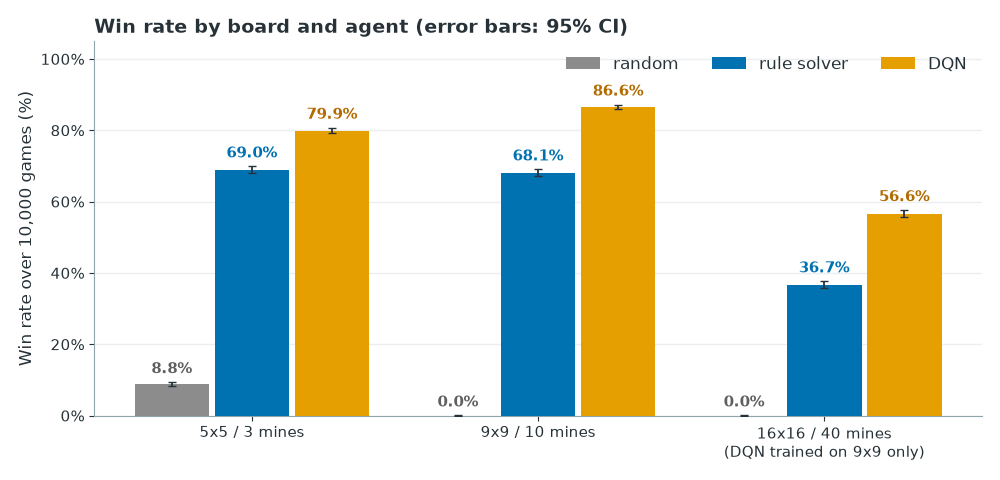
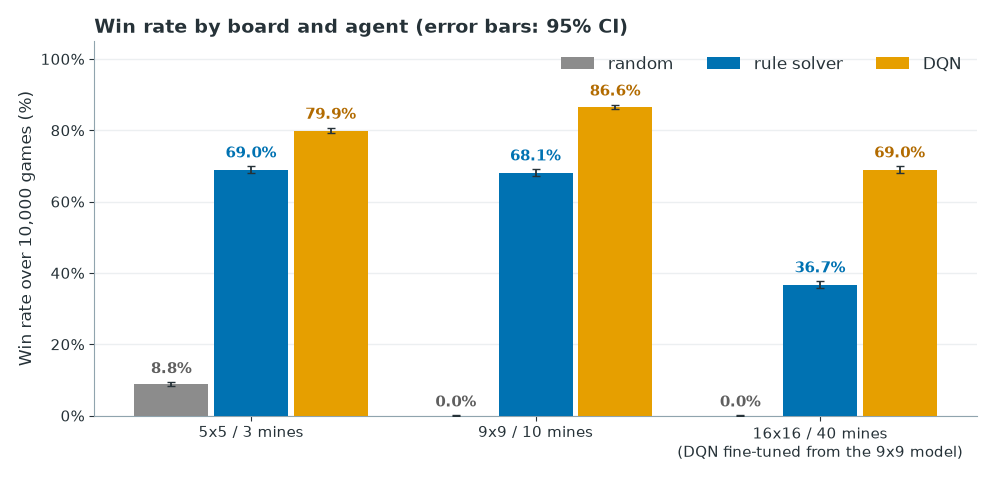
Results chart: show fine-tuned 16x16 model (68.97% on 10k standard seeds)
Claude-Session: https://claude.ai/code/session_01DprKnBVyFFp4QZyyFtDwfA

diff --git a/scripts/make_figures.py b/scripts/make_figures.py
@@ -90,8 +90,8 @@ def results_comparison() -> None:
     groups = [
         ("5x5 / 3 mines", "baselines/random_5x5_3.json", "baselines/rule_5x5_3.json", "dqn/dqn_5x5_3.json"),
         ("9x9 / 10 mines", "baselines/random_9x9_10.json", "baselines/rule_9x9_10.json", "dqn/dqn_9x9_10.json"),
-        ("16x16 / 40 mines\n(DQN trained on 9x9 only)", "baselines/random_16x16_40.json",
-         "baselines/rule_16x16_40.json", "dqn/dqn_9x9_10_on_16x16_40.json"),
+        ("16x16 / 40 mines\n(DQN fine-tuned from the 9x9 model)", "baselines/random_16x16_40.json",
+         "baselines/rule_16x16_40.json", "dqn/dqn_16x16_40_finetune.json"),
     ]
     series = [("random", C_RANDOM, "#5f5f5f"), ("rule solver", C_RULE, C_RULE), ("DQN", C_DQN, C_DQN_TEXT)]
     fig, ax = plt.subplots(figsize=(10, 4.8))

diff --git a/README.md b/README.md
@@ -23,13 +23,13 @@ Win rate over 10,000 games, 95% Wilson CI. Standard seeds are 1,000,000-1,009,99
 |-------|--------|-------------|----------------------|--------------------|
 | 5x5 / 3 mines | 8.82% (8.28-9.39%) | 68.96% (68.05-69.86%) | **79.93%** (79.13-80.70%) | - |
 | 9x9 / 10 mines | 0.00% (0.00-0.04%) | 68.11% (67.19-69.02%) | **86.55%** (85.87-87.20%) | **87.57%** (86.91-88.20%) |
-| 16x16 / 40 mines, **DQN fine-tuned on 16x16** | 0.00% (0.00-0.04%) | 36.09% | - | **68.50%** (67.58-69.40%) |
+| 16x16 / 40 mines, **DQN fine-tuned on 16x16** | 0.00% (0.00-0.04%) | 36.69% (35.75-37.64%) | **68.97%** (68.06-69.87%) | **68.50%** (67.58-69.40%) |
 | 16x16 / 40 mines, DQN trained on 9x9 only (zero-shot) | 0.00% (0.00-0.04%) | 36.69% (35.75-37.64%) | 56.63% (55.66-57.60%) | 56.70% (unseen seeds, from the experiments) |
 | 5x5 / 3 mines, DQN trained on 9x9 only | - | - | 79.09% (78.28-79.88%) | - |
 
 ![Win rate by board and agent](docs/assets/results_comparison.png)
 
-The fine-tuned 16x16 row is `models/dqn_16x16_40_finetune.pt`, the best checkpoint of the best of 4 fine-tuning/scratch runs (the 2 fine-tune runs reached 65.2% and 68.5%), so 68.5% is an optimistic pick; a typical run lands nearer 63-67%. An independent check on 3,000 fresh seeds (7,000,000 and up) gave **69.2%** (67.5-70.8%), against 57.8% for the 9x9 model on the same games. The rule solver's 36.09% is on the same 10,000 unseen seeds; the other solver and random numbers in the table are on the standard seeds. The chart above predates the fine-tuned model and still shows the zero-shot 16x16 bar.
+The fine-tuned 16x16 row is `models/dqn_16x16_40_finetune.pt`, the best checkpoint of the best of 4 fine-tuning/scratch runs (the 2 fine-tune runs reached 65.2% and 68.5%), so 68.5% is an optimistic pick; a typical run lands nearer 63-67%. An independent check on 3,000 fresh seeds (7,000,000 and up) gave **69.2%** (67.5-70.8%), against 57.8% for the 9x9 model on the same games. On the unseen seeds the rule solver wins 36.09%; the solver and random columns in the table are on the standard seeds. The chart shows the fine-tuned model for 16x16; the zero-shot row is in the table only.
 
 Two caveats. First, `best.pt` is the checkpoint with the best 1,000-game eval during training, picked from 40 noisy evals on seeds that overlap the standard range, so the unseen-seed column is the fairer estimate. Second, the final checkpoint (`final.pt`, 20M steps) scores 79.50% / 80.05% (standard / unseen): late in training the eval win rate bounces between about 74% and 87% because the learning rate never decays. So the honest 9x9 summary is "about 87% at its best checkpoint, about 80% at the end"; see [what I learned](#what-i-learned).
 
